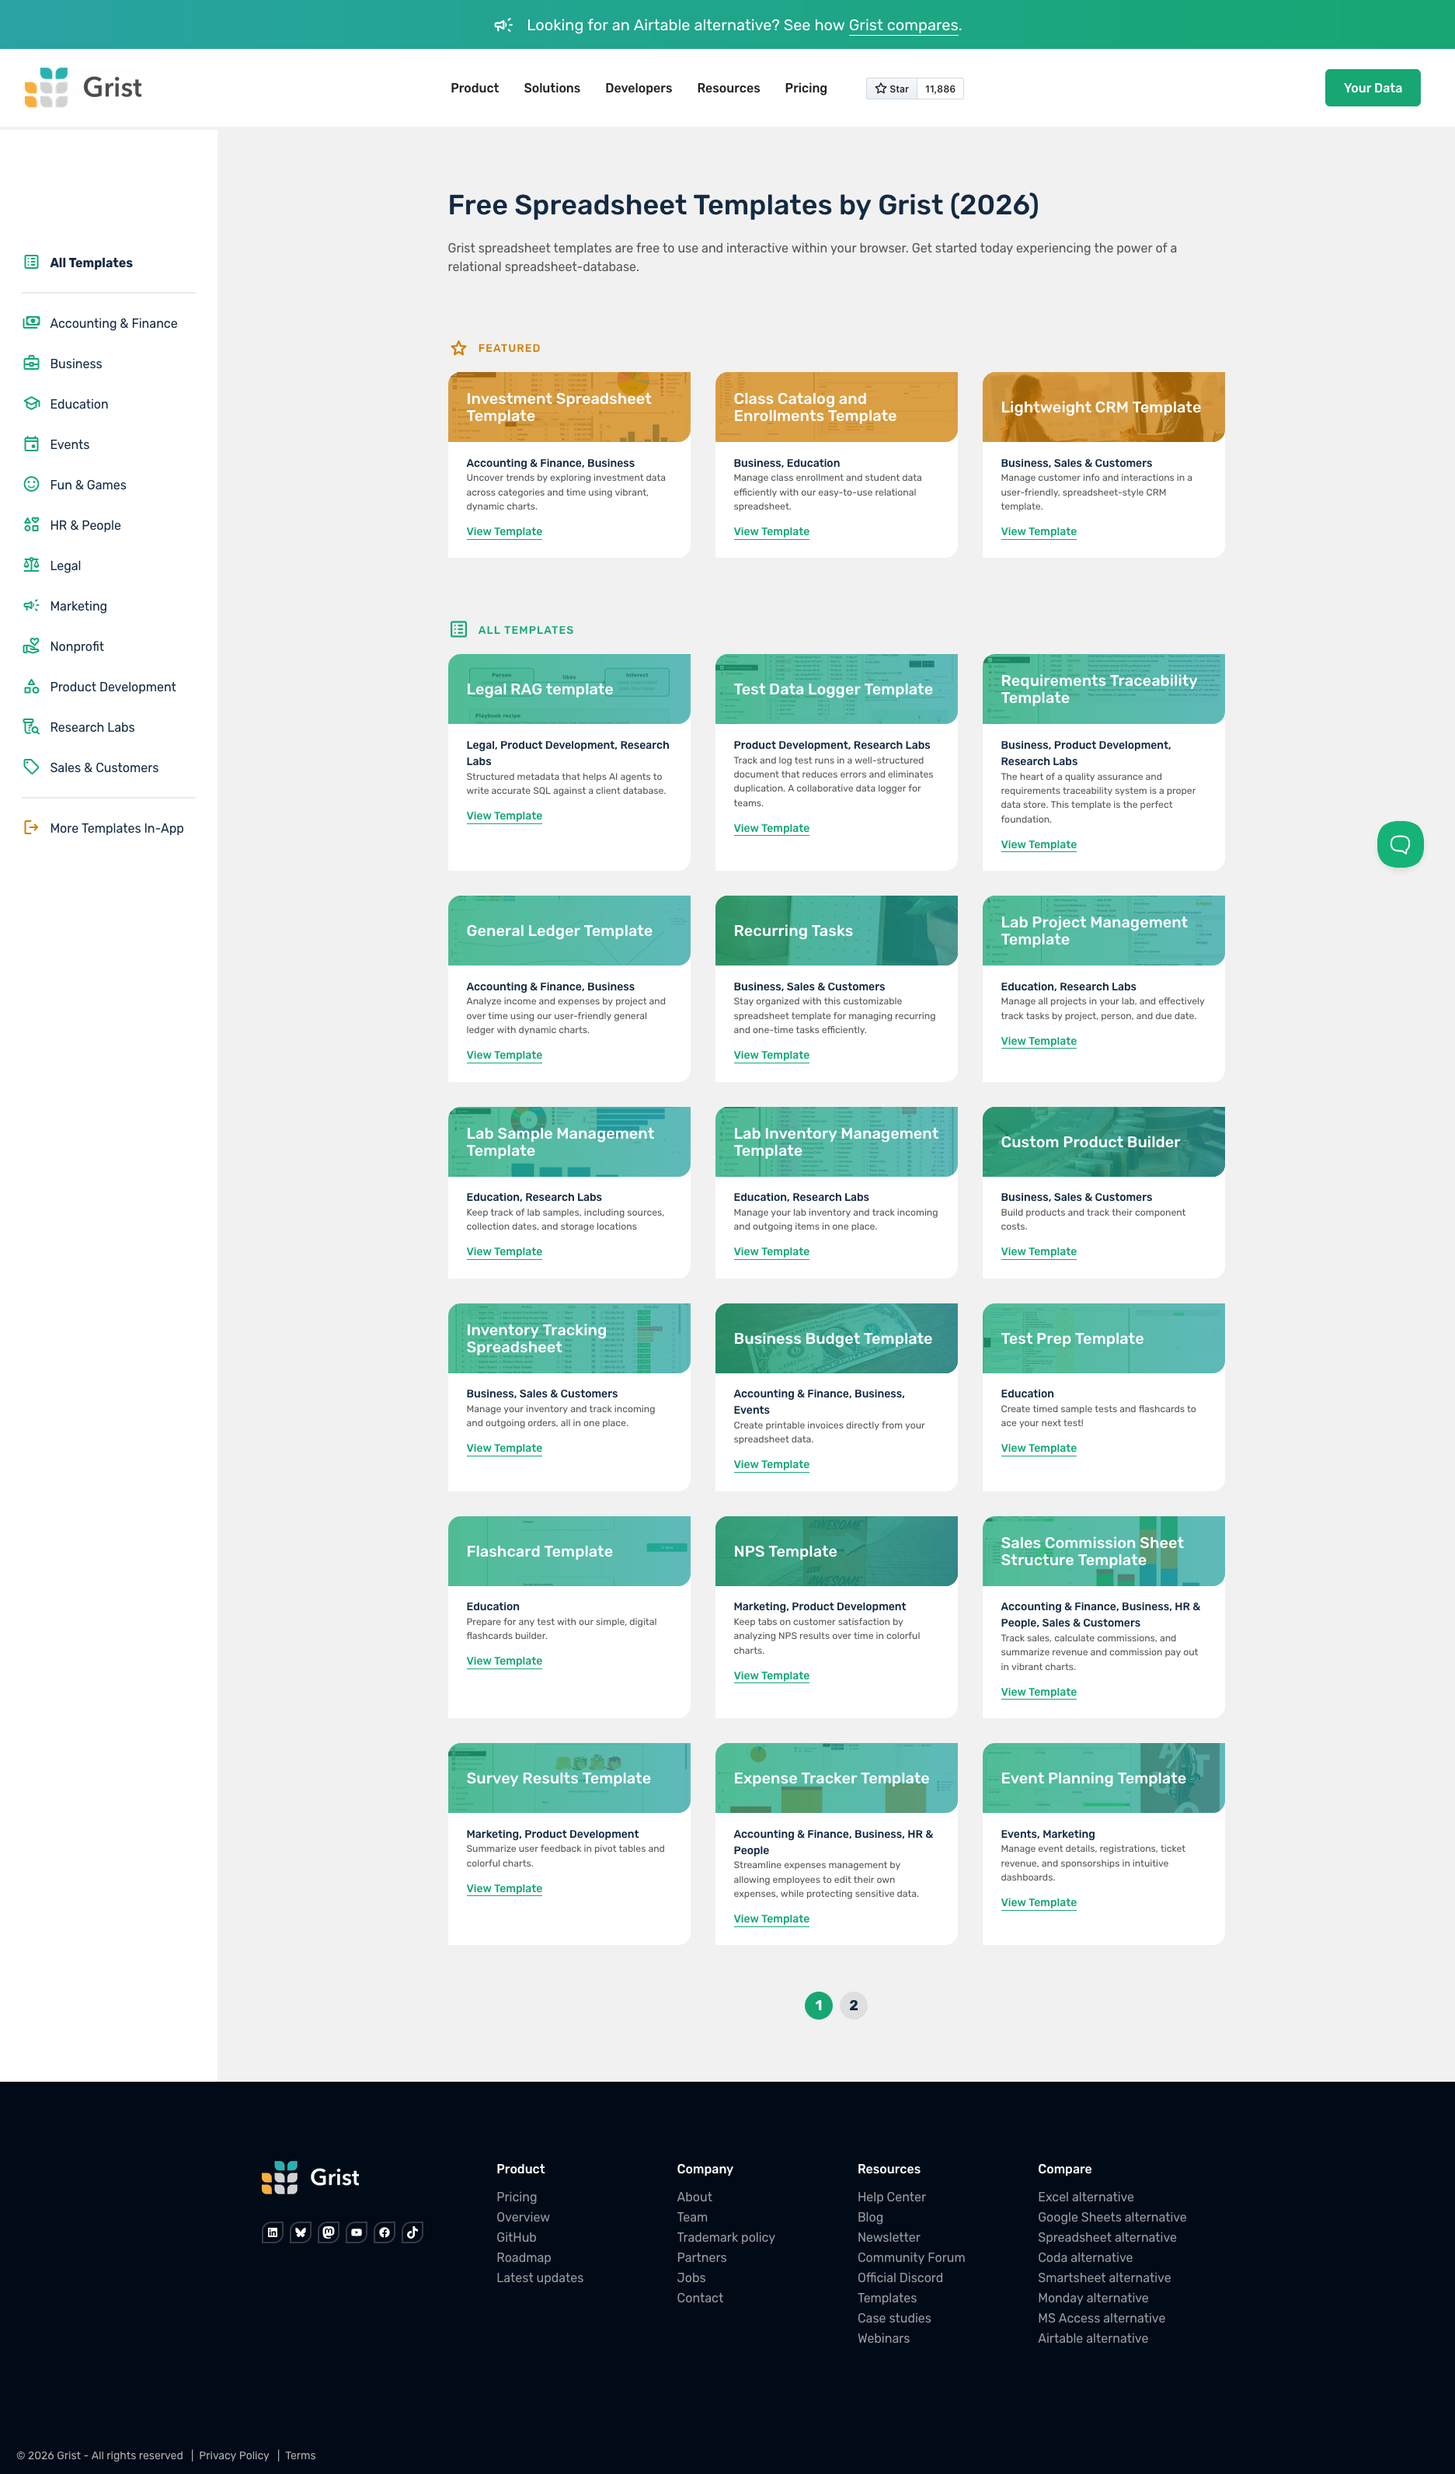
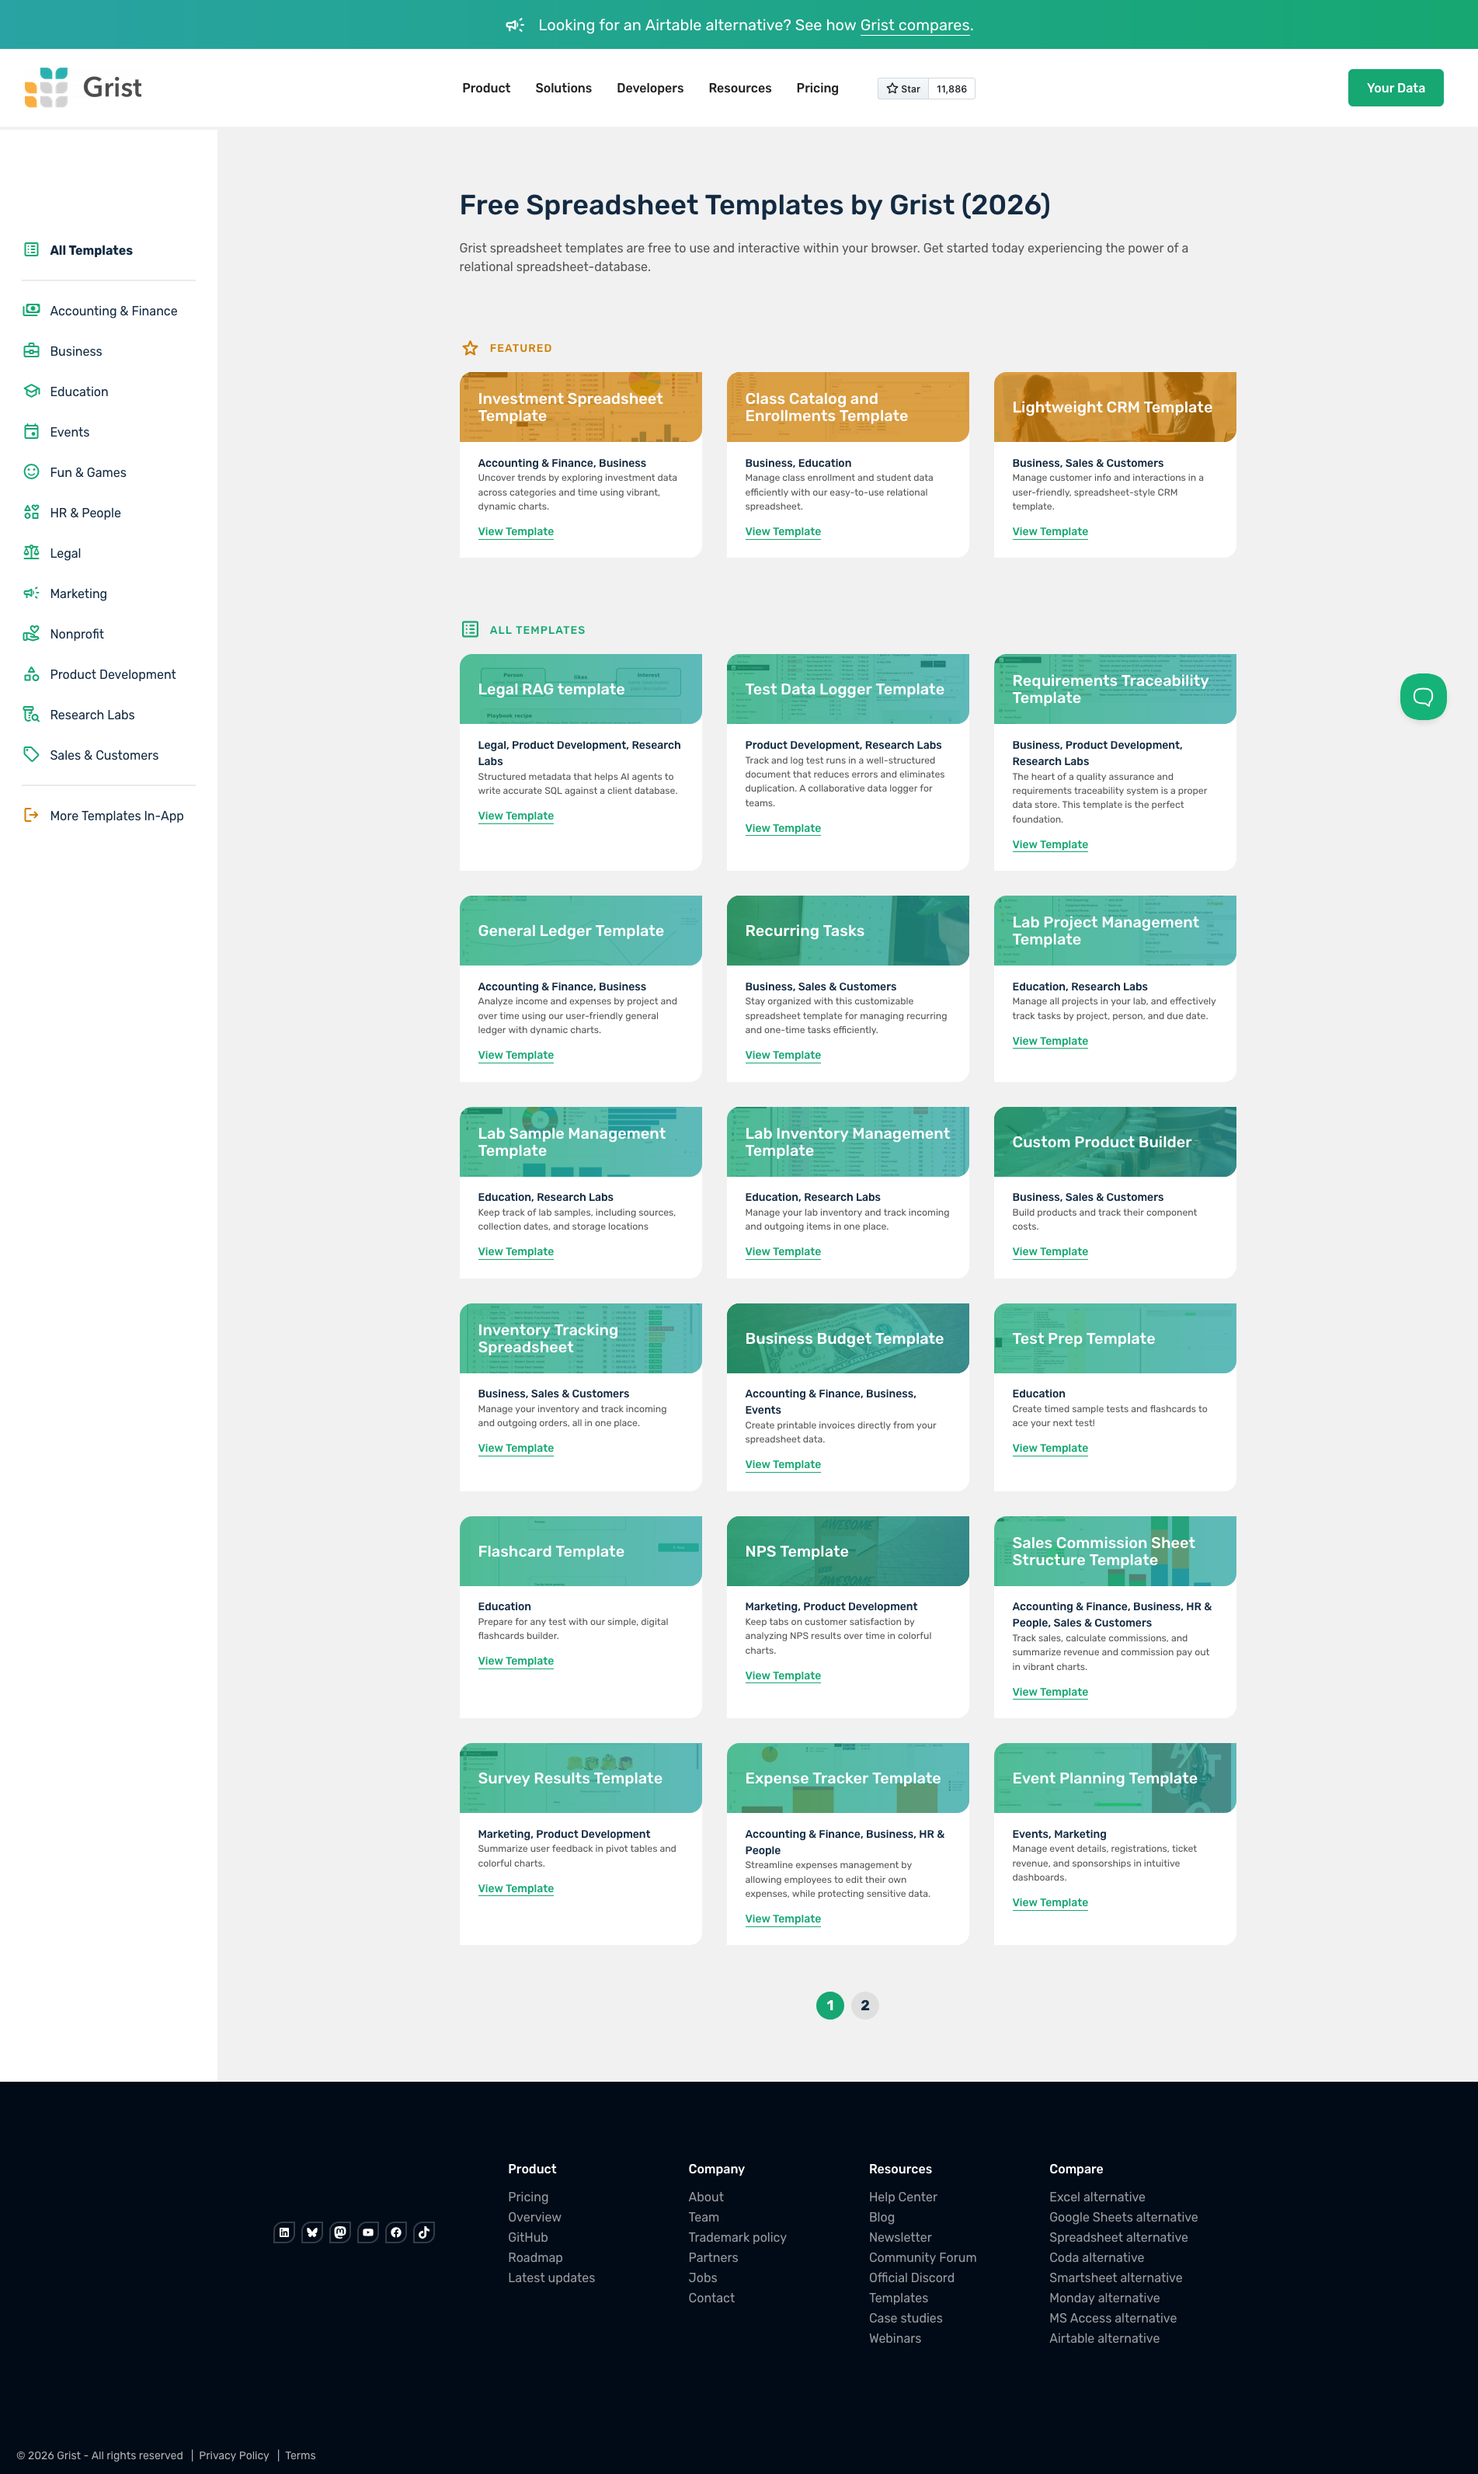
hermes udpates

diff --git a/custom.scss b/custom.scss
@@ -136,6 +136,7 @@ $code-block-font-size: 0.72em;
   width: min(92%, 900px);
   margin: 2.2rem auto 0;
   padding: 2.4rem 0.5rem 0.25rem;
+  justify-content: center;
 }
 
 .reveal .slides section:has(> .progress-timeline) > .progress-timeline .event {

diff --git a/spreadsheet.py b/spreadsheet.py
@@ -1,26 +1,81 @@
 import marimo
 
-__generated_with = "0.24.0"
+__generated_with = "0.25.1"
 app = marimo.App(width="medium")
 
 
 @app.cell
 def _():
+    from pygrister.api import GristApi
     import marimo as mo
 
+    return GristApi, mo
+
+
+@app.cell
+def _(GristApi):
+    grist = GristApi()
+    return (grist,)
+
+
+@app.cell
+def _(grist):
+    _code, result = grist.list_workspaces()
+    return (result,)
+
+
+@app.cell
+def _(result):
+    result
+    return
+
+
+@app.cell
+def _(result):
+    doc_id = result[0]["docs"][0]["id"]
+    return (doc_id,)
+
+
+@app.cell
+def _(doc_id, grist):
+    _code, tables = grist.list_tables(doc_id=doc_id)
+    return (tables,)
+
+
+@app.cell
+def _(tables):
+    table_id = tables[0]["id"]
+    return (table_id,)
+
+
+@app.cell
+def _(doc_id, grist, table_id):
+    _code, records = grist.list_records(doc_id=doc_id, table_id=table_id)
+    return (records,)
+
+
+@app.cell
+def _(mo, records):
+    mo.ui.table(records)
+    return
+
+
+@app.cell
+def _(doc_id, grist, mo):
+    _code, results = grist.run_sql(
+        sql="""
+        select "Activity", 
+        DATETIME(ROUND("Start" ), 'unixepoch'), 
+        DATETIME(ROUND("End"), 'unixepoch'), 
+        "All_Day", "Category" from Events""",
+        doc_id=doc_id,
+    )
+    mo.ui.table(results)
     return
 
 
 @app.cell
 def _():
-    import requests
-
-    return (requests,)
-
-
-@app.cell
-def _(requests):
-    requests.get('http://grist:8484/api').text
     return
 
 

diff --git a/README.md b/README.md
@@ -27,13 +27,16 @@ The workshop services run together with Docker Compose. Install Docker Desktop o
 docker compose up -d --build
 ```
 
-Compose reads `OPENROUTER_API_KEY` from the ignored project-root `.env` and passes it unchanged to both Hermes containers. Add the key to `.env` before starting Compose:
+Compose expands `OPENROUTER_API_KEY` and `GRIST_API_KEY` from the launching shell and injects them into both the Hermes gateway and Hermes WebUI containers. The WebUI is a separate container and needs `GRIST_API_KEY` in its own process environment when it launches MCP processes. The keys do not need to be copied into the persisted Hermes `.env`.
 
-```dotenv
-OPENROUTER_API_KEY=replace-with-your-openrouter-api-key
+Export the keys before starting Compose. Docker Compose also reads an ignored project-root `.env` automatically when that is preferable:
+
+```bash
+export OPENROUTER_API_KEY=replace-with-your-openrouter-api-key
+export GRIST_API_KEY=replace-with-your-grist-api-key
 ```
 
-Docker Compose reads `.env` automatically. For shell tasks, `.envrc` loads the same file when direnv is available:
+For shell tasks, `.envrc` loads the same values when direnv is available:
 
 ```bash
 direnv allow
@@ -42,13 +45,13 @@ docker compose up -d
 
 The Hermes WebUI uses the configured Hermes Agent gateway and provides model selection in its settings. Authentication is intentionally disabled because this is a loopback-only demo; keep the published port local. WebUI and Hermes state, including the Grist MCP definition in `/opt/data/config.yaml`, is persisted in the explicitly named `pycon-2026-teaching-spreadhseets-python_hermes-data` volume. The explicit name keeps the same profile when containers are rebuilt or recreated and when Compose is invoked with a different project name.
 
-With `OPENROUTER_API_KEY` set in `.env`, configure Hermes without the interactive wizard:
+With `OPENROUTER_API_KEY` and `GRIST_API_KEY` in the shell environment, configure Hermes without the interactive wizard:
 
 ```bash
 direnv exec . uv run tasks.py setup-hermes
 ```
 
-This stops the Hermes services, writes the OpenRouter provider and model into the persisted Hermes configuration, adds the Grist MCP stdio server, and starts the services again. The MCP subprocess runs inside the Hermes container with `uvx`; it reaches Grist at `http://grist:8484/api` and receives `GRIST_API_KEY` from the ignored host `.env` through the Hermes container environment. Run this task once to initialize a new volume; ordinary restarts, rebuilds, and container recreation retain the MCP definition. The default model is `deepseek/deepseek-v4.1-flash`. To choose another model:
+This stops the Hermes services, writes the OpenRouter provider and model into the persisted Hermes configuration, adds the Grist MCP stdio server, and starts the services again. MCP subprocesses reach Grist at `http://grist:8484/api`; `${GRIST_API_KEY}` resolves from the environment of whichever container launches them. Compose therefore injects the key independently into both `hermes` and `webui`. Run this task once to initialize a new volume; ordinary restarts, rebuilds, and container recreation retain the MCP definition. The default model is `deepseek/deepseek-v4.1-flash`. To choose another model:
 
 ```bash
 direnv exec . uv run tasks.py setup-hermes --model cohere/north-mini-code:free
